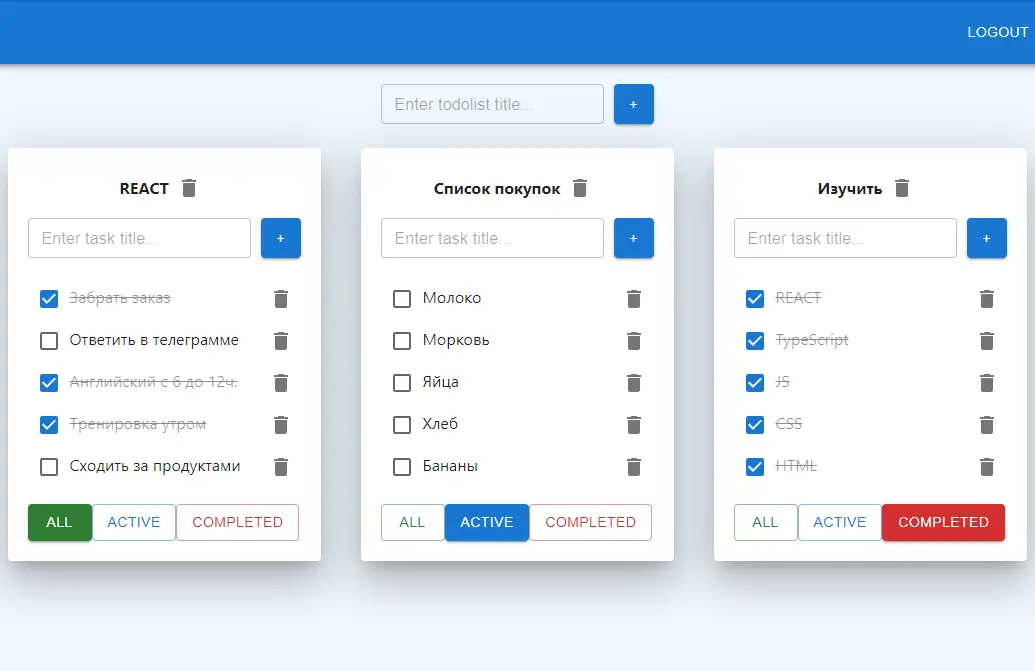
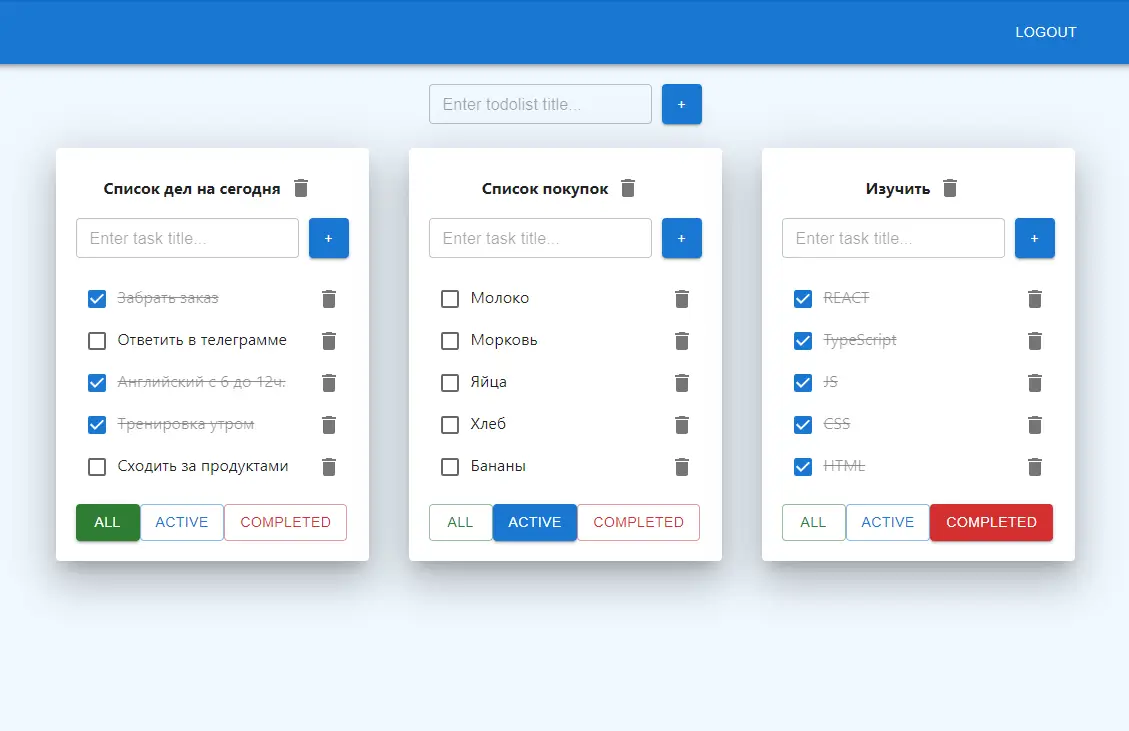
refactor: Заменил скрин проекта Тудулист.

Changed region(s): [[0.0, 0.0894, 1.0, 0.8942], [0.8966, 0.0298, 1.0, 0.0596]]

diff --git a/src/common/components/button/Button.module.scss b/src/common/components/button/Button.module.scss
@@ -27,9 +27,10 @@
 
   &:hover {
     &::before {
+      bottom: 0;
       width: 100%;
       height: 100%;
-      transition: all var(--transition);
+      transition: var(--transition);
     }
   }
 }

diff --git a/src/features/projects/project/Project.module.scss b/src/features/projects/project/Project.module.scss
@@ -50,6 +50,7 @@
       transition: var(--transition);
 
       &::before {
+        bottom: 0;
         width: 100%;
         height: 100%;
       }
